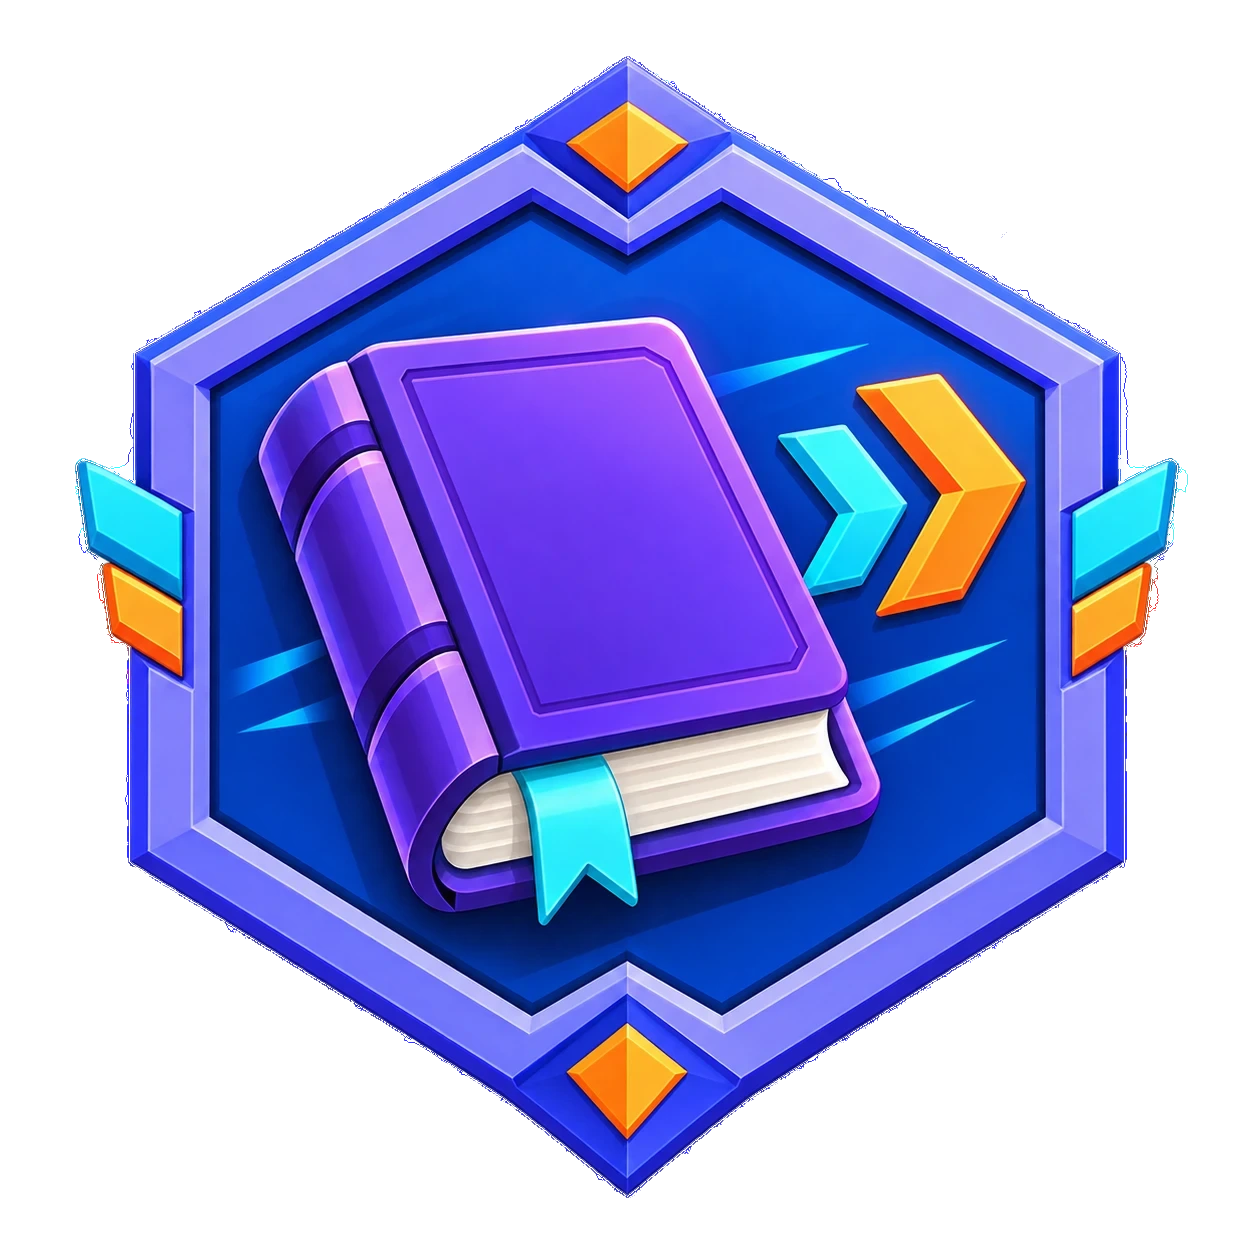
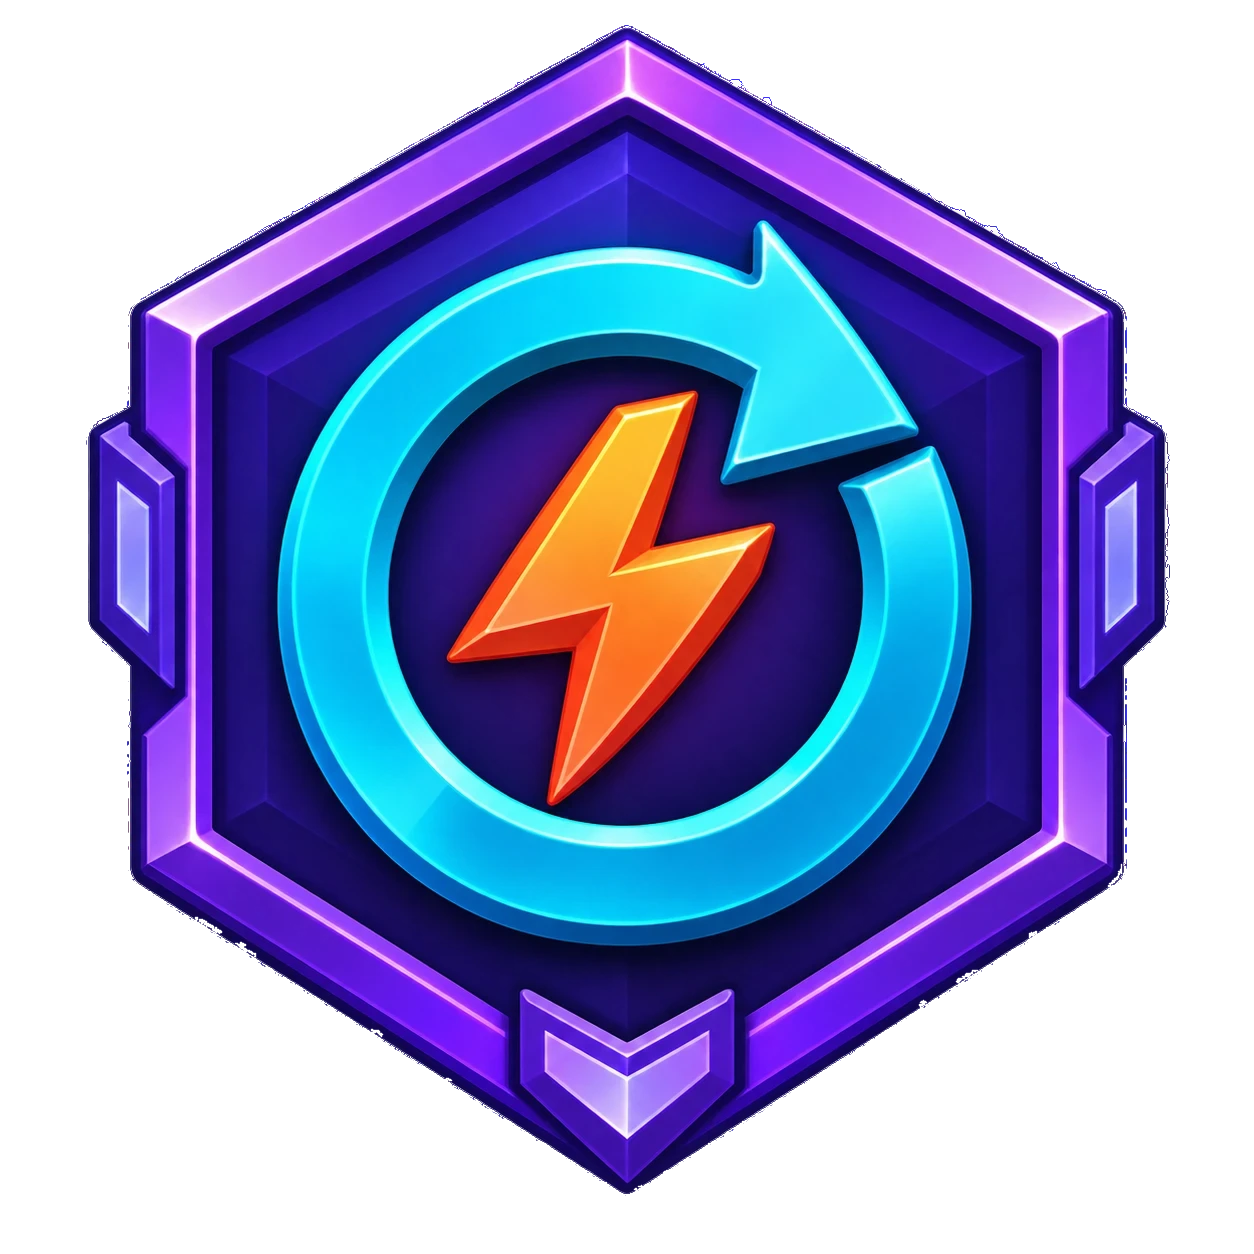
Fecha o conjunto de insígnias
"De volta" ganha o hexágono de seta em ciclo; Maratonista volta ao livro com
setas de velocidade. As oito insígnias passam a ter arte própria no mesmo
estilo, e os escudos do modelo antigo saem de cena.

diff --git a/src/lib/insignias.ts b/src/lib/insignias.ts
@@ -35,7 +35,7 @@ export const INSIGNIAS: Insignia[] = [
     id: "maratonista",
     name: "Maratonista",
     condition: "Aprenda 30 palavras em um dia",
-    image: "/badges/categorias/_reserva-calendario.webp",
+    image: "/badges/insignias/maratonista.webp",
     earned: true,
     earnedAt: "15/09",
   },
